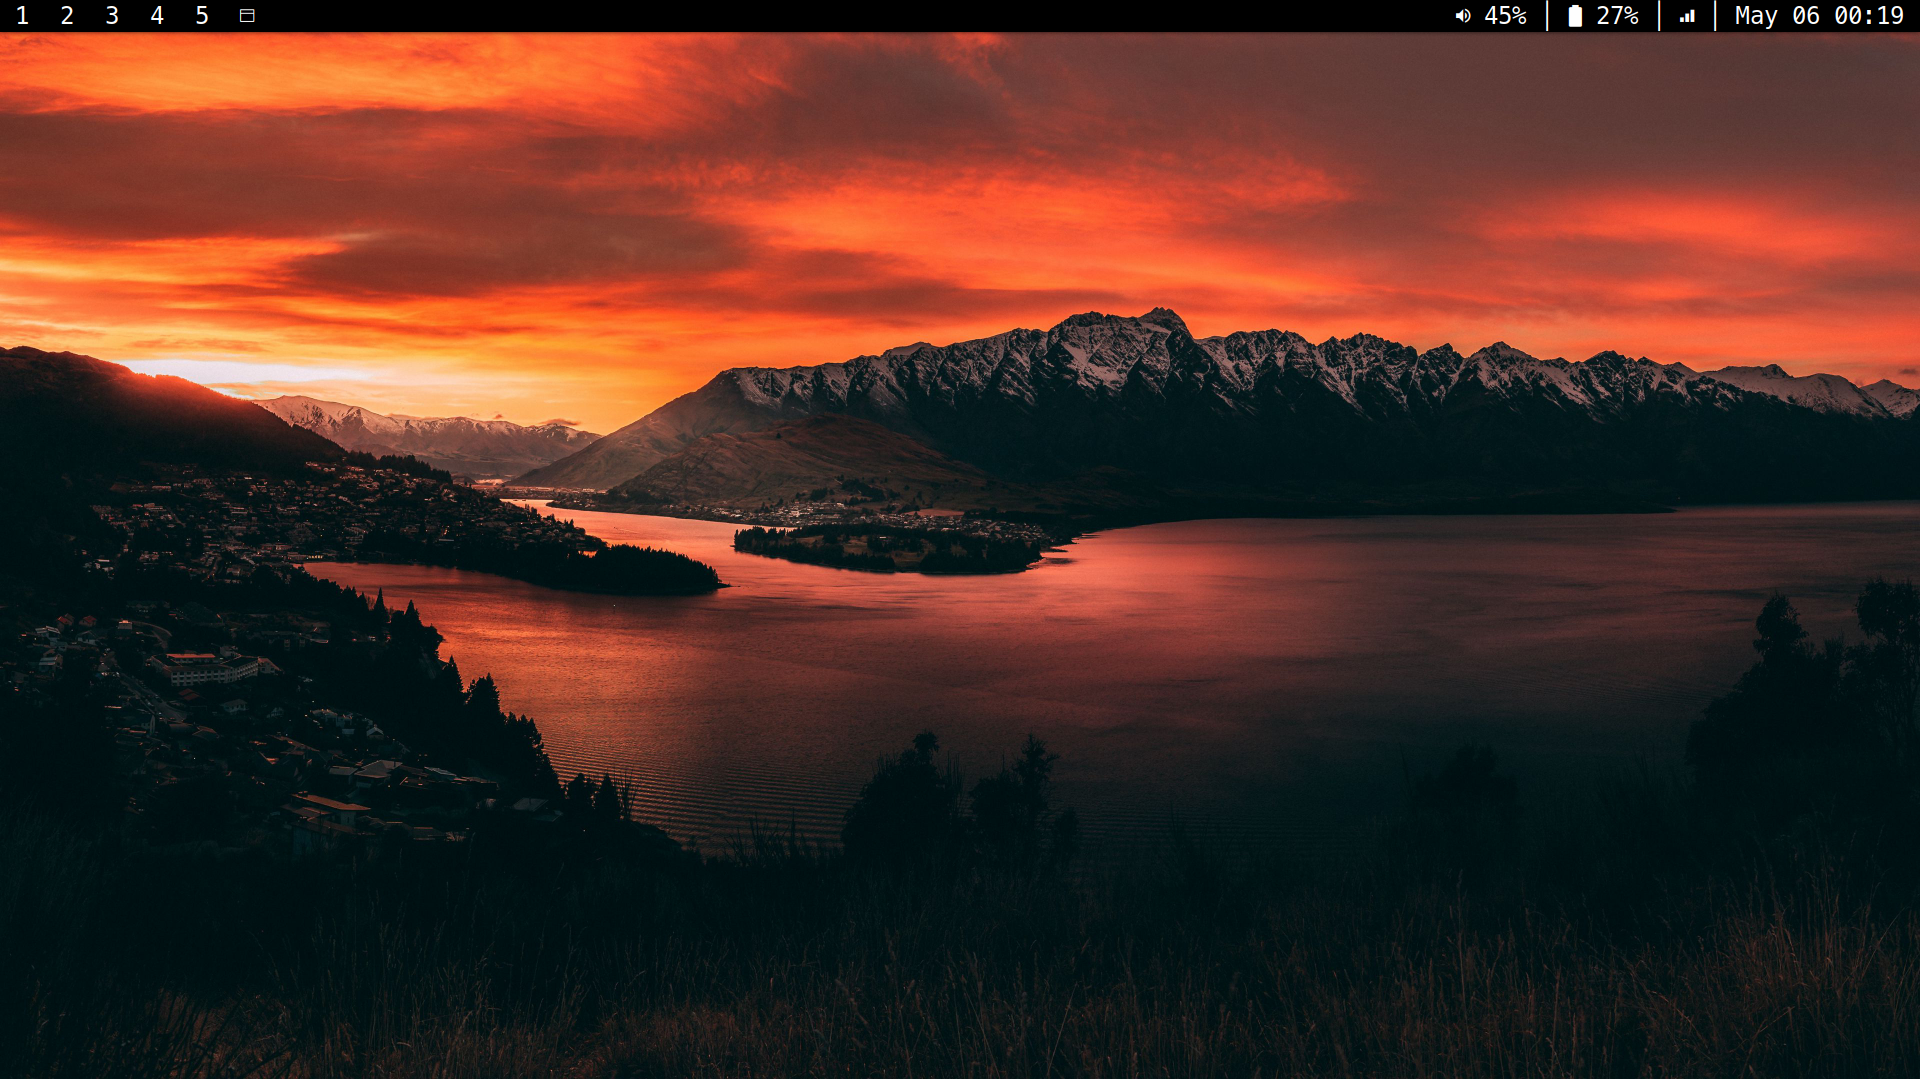
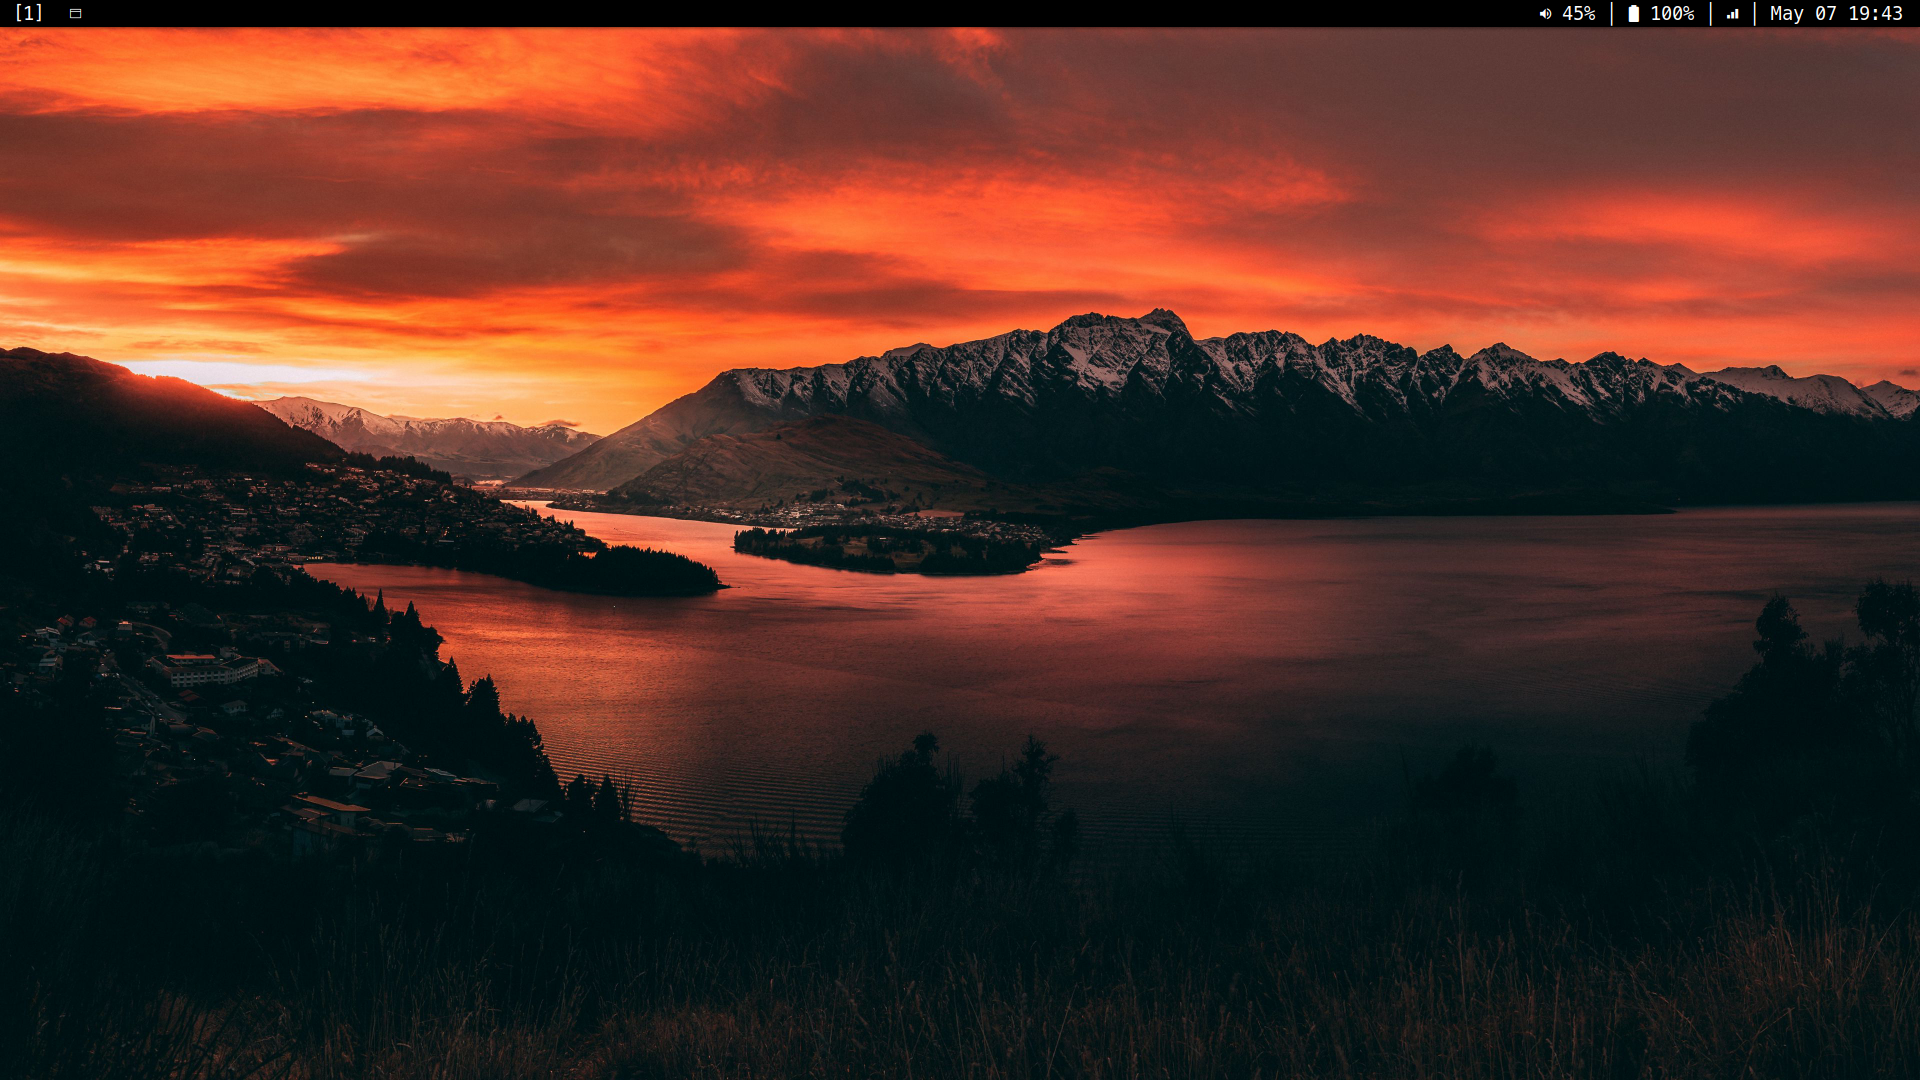
update

diff --git a/config.h b/config.h
@@ -8,14 +8,14 @@ static const unsigned int snap 			= 32;  				/* snap pixel */
 static const int swallowfloating          	= 1;		      		/* 1 means swallow floating windows by default */
 static const unsigned int systraypinning  	= 1;      			/* 0: sloppy systray follows selected monitor, >0: pin systray to monitor X */
 static const unsigned int systrayonleft   	= 0;      			/* 0: systray in the right corner, >0: systray on left of status text */
-static const unsigned int systrayspacing  	= 3;      			/* systray spacing */
+static const unsigned int systrayspacing  	= 2;      			/* systray spacing */
 static const int systraypinningfailfirst  	= 1;      			/* 1: if pinning fails, display systray on the first monitor, False: display systray on the last monitor*/
 static const int showsystray              	= 1;      			/* 0 means no systray */
 static const int showbar            		= 1;        			/* 0 means no bar */
 static const int topbar             		= 1;        			/* 0 means bottom bar */
 static const Bool viewontag              	= True;   			/* Switch view on tag switch */
-static const char *fonts[]          		= { "MesloLGS Nerd Font Mono:size=18", "NotoColorEmoji:pixelsize=18:antialias=true:autohint=true"  };
-static const char dmenufont[]       		= "MesloLGS Nerd Font Mono:size=16";
+static const char *fonts[]          		= { "MesloLGS Nerd Font Mono:size=14", "NotoColorEmoji:pixelsize=14:antialias=true:autohint=true"  };
+static const char dmenufont[]       		= "MesloLGS Nerd Font Mono:size=12";
 static const char col_1[]       = "#000000";
 static const char col_2[]       = "#FFFFFF";
 static const char *colors[][3]      = {
